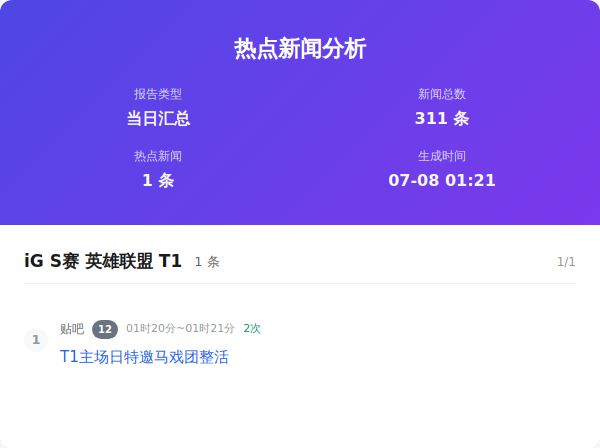
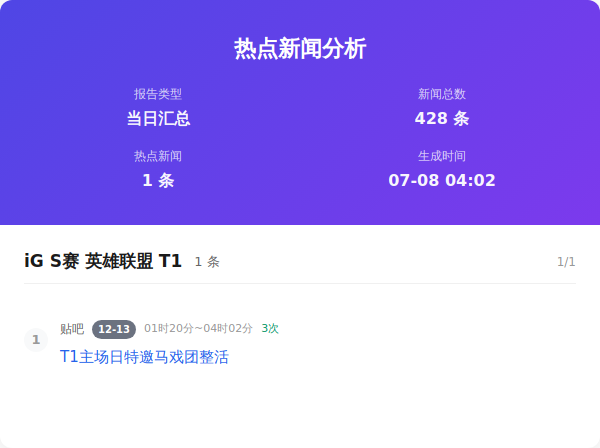
Auto update by GitHub Actions at Wed Jul  8 04:02:24 CST 2026

Changed region(s): [[0.18, 0.6875, 0.48, 0.7812], [0.75, 0.375, 0.84, 0.4375], [0.69, 0.25, 0.75, 0.2812]]

diff --git a/index.html b/index.html
@@ -357,7 +357,7 @@
                     </div>
                     <div class="info-item">
                         <span class="info-label">新闻总数</span>
-                        <span class="info-value">311 条</span>
+                        <span class="info-value">428 条</span>
                     </div>
                     <div class="info-item">
                         <span class="info-label">热点新闻</span>
@@ -365,7 +365,7 @@
                     </div>
                     <div class="info-item">
                         <span class="info-label">生成时间</span>
-                        <span class="info-value">07-08 01:21</span>
+                        <span class="info-value">07-08 04:02</span>
                     </div>
                 </div>
             </div>
@@ -383,7 +383,7 @@
                         <div class="news-number">1</div>
                         <div class="news-content">
                             <div class="news-header">
-                                <span class="source-name">贴吧</span><span class="rank-num ">12</span><span class="time-info">01时20分~01时21分</span><span class="count-info">2次</span>
+                                <span class="source-name">贴吧</span><span class="rank-num ">12-13</span><span class="time-info">01时20分~04时02分</span><span class="count-info">3次</span>
                             </div>
                             <div class="news-title"><a href="https://tieba.baidu.com/hottopic/browse/hottopic?topic_id=28355975&amp;amp;topic_name=T1%E4%B8%BB%E5%9C%BA%E6%97%A5%E7%89%B9%E9%82%80%E9%A9%AC%E6%88%8F%E5%9B%A2%E6%95%B4%E6%B4%BB" target="_blank" class="news-link">T1主场日特邀马戏团整活</a>
                             </div>

diff --git a/output/2026年07月08日/html/当日汇总.html b/output/2026年07月08日/html/当日汇总.html
@@ -357,7 +357,7 @@
                     </div>
                     <div class="info-item">
                         <span class="info-label">新闻总数</span>
-                        <span class="info-value">311 条</span>
+                        <span class="info-value">428 条</span>
                     </div>
                     <div class="info-item">
                         <span class="info-label">热点新闻</span>
@@ -365,7 +365,7 @@
                     </div>
                     <div class="info-item">
                         <span class="info-label">生成时间</span>
-                        <span class="info-value">07-08 01:21</span>
+                        <span class="info-value">07-08 04:02</span>
                     </div>
                 </div>
             </div>
@@ -383,7 +383,7 @@
                         <div class="news-number">1</div>
                         <div class="news-content">
                             <div class="news-header">
-                                <span class="source-name">贴吧</span><span class="rank-num ">12</span><span class="time-info">01时20分~01时21分</span><span class="count-info">2次</span>
+                                <span class="source-name">贴吧</span><span class="rank-num ">12-13</span><span class="time-info">01时20分~04时02分</span><span class="count-info">3次</span>
                             </div>
                             <div class="news-title"><a href="https://tieba.baidu.com/hottopic/browse/hottopic?topic_id=28355975&amp;amp;topic_name=T1%E4%B8%BB%E5%9C%BA%E6%97%A5%E7%89%B9%E9%82%80%E9%A9%AC%E6%88%8F%E5%9B%A2%E6%95%B4%E6%B4%BB" target="_blank" class="news-link">T1主场日特邀马戏团整活</a>
                             </div>